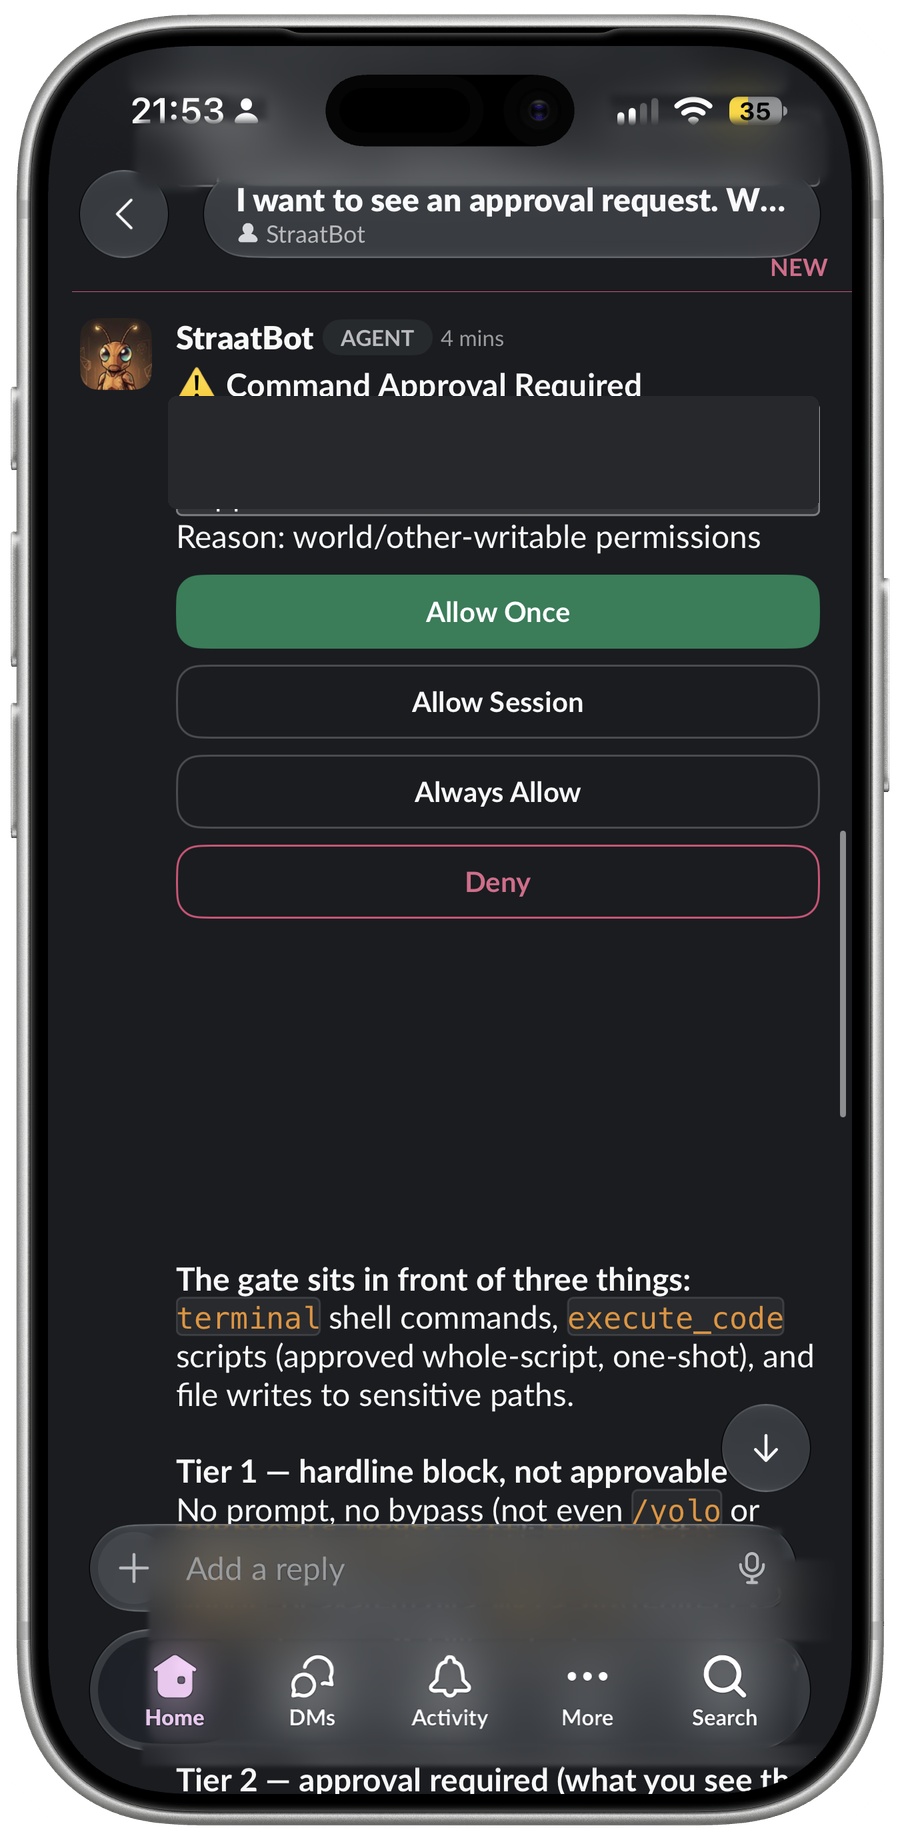
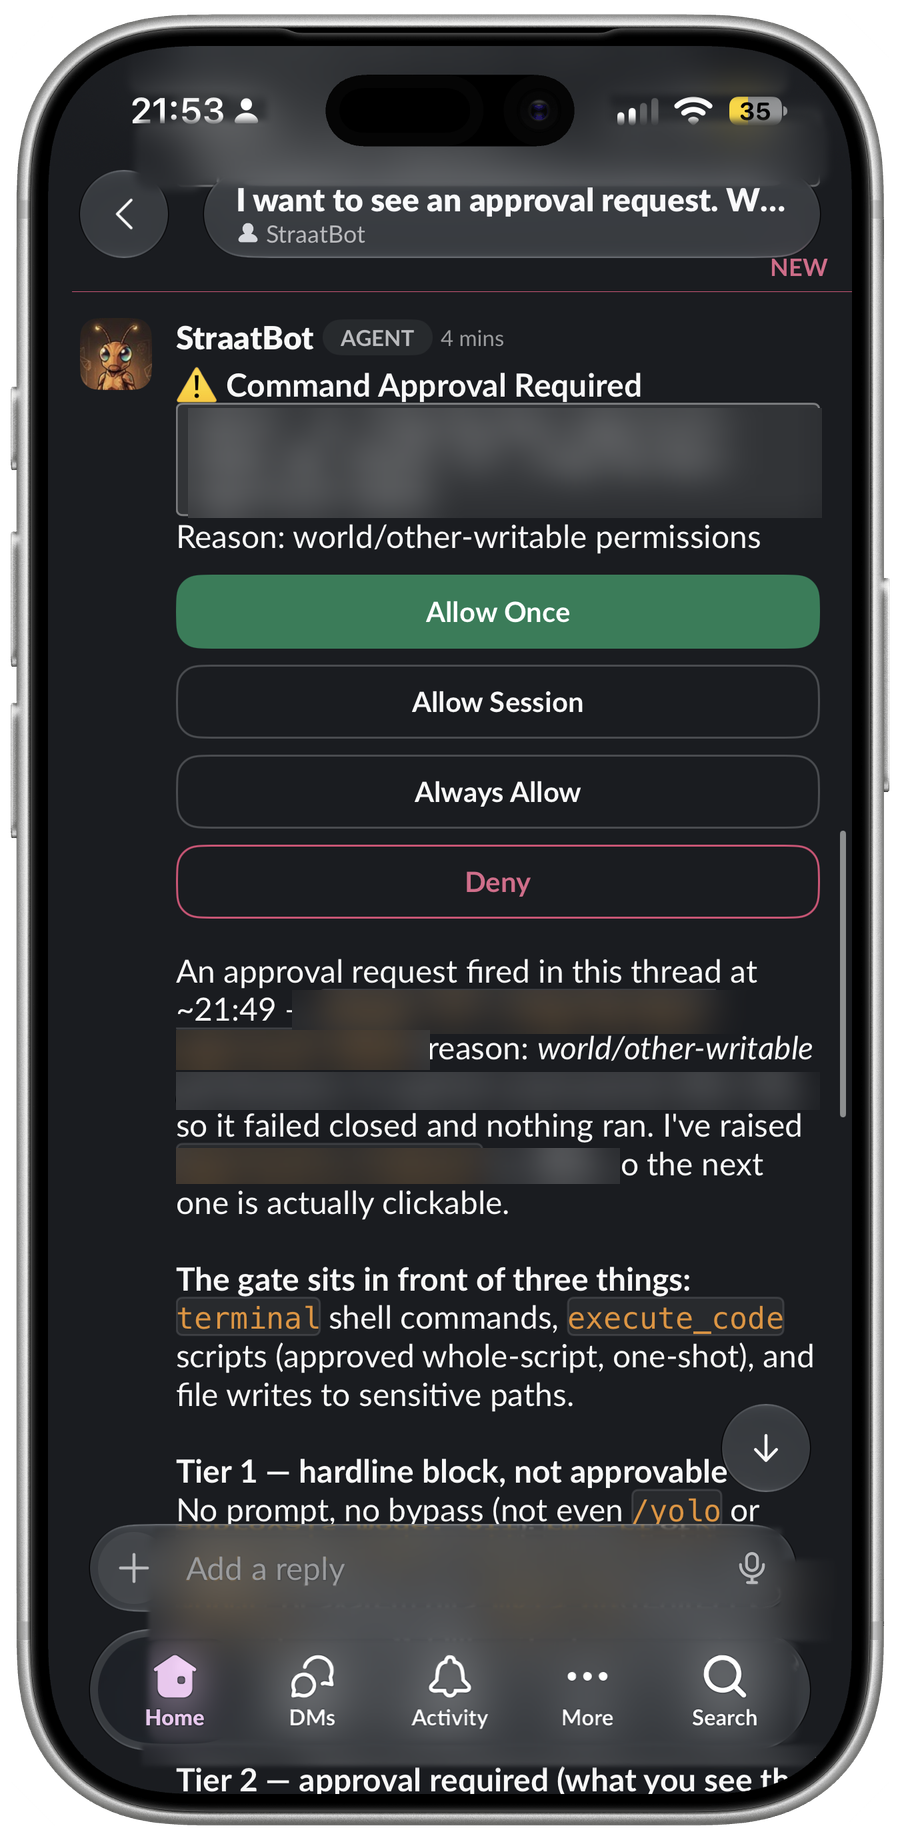
Keep StraatClaw side phones whole and blur private lines.
Scale the fan so every visible phone stays complete at desktop and
mid widths, and restore the full Telegram and Slack shots with blur
only on the venue, conflict, path, and timeout lines.

Changed region(s): [[0.1867, 0.5266, 0.9022, 0.6815], [0.1867, 0.2168, 0.8089, 0.2788]]

diff --git a/site/src/styles/site.css b/site/src/styles/site.css
@@ -2400,15 +2400,19 @@ html[data-page="resume"] a:hover {
 }
 
 .phone-stage {
-  --phone-center: 320px;
+  --phone-center: min(268px, 24cqi);
   --phone-ratio: 1.67;
   --phone-chip: 2.75rem;
+  --fan-shift: 11.5cqi;
+  --fan-scale: 0.78;
+  container-type: inline-size;
   position: relative;
   margin-top: 2.5rem;
   background: var(--surface);
   border: var(--stroke-hairline) solid var(--border);
-  padding: 2.25rem 3.5rem 1.5rem;
+  padding: 2.5rem 4.25rem 1.5rem;
   outline: none;
+  overflow: hidden;
 }
 
 .phone-stage:focus-visible {
@@ -2419,7 +2423,7 @@ html[data-page="resume"] a:hover {
 .phone-stage-viewport {
   position: relative;
   height: calc(var(--phone-center) * var(--phone-ratio) + var(--phone-chip));
-  overflow: hidden;
+  overflow: visible;
   touch-action: pan-y;
 }
 
@@ -2487,7 +2491,7 @@ html[data-page="resume"] a:hover {
   border-radius: 1.7rem;
 }
 
-/* Center phone and its two neighbors; everything else tucks away. */
+/* Three complete phones: center plus one whole neighbor on each side. */
 .phone-slide[data-offset="0"] {
   transform: translateX(-50%) scale(1);
   z-index: 3;
@@ -2495,33 +2499,20 @@ html[data-page="resume"] a:hover {
 }
 
 .phone-slide[data-offset="-1"] {
-  transform: translateX(calc(-50% - 58%)) scale(0.82);
+  transform: translateX(calc(-50% - var(--fan-shift))) scale(var(--fan-scale));
   z-index: 2;
-  opacity: 0.68;
+  opacity: 0.72;
 }
 
 .phone-slide[data-offset="1"] {
-  transform: translateX(calc(-50% + 58%)) scale(0.82);
+  transform: translateX(calc(-50% + var(--fan-shift))) scale(var(--fan-scale));
   z-index: 2;
-  opacity: 0.68;
+  opacity: 0.72;
 }
 
-.phone-slide[data-offset="-2"] {
-  transform: translateX(calc(-50% - 108%)) scale(0.66);
-  z-index: 1;
-  opacity: 0.32;
-}
-
-.phone-slide[data-offset="2"] {
-  transform: translateX(calc(-50% + 108%)) scale(0.66);
-  z-index: 1;
-  opacity: 0.32;
-}
-
-.phone-slide:not([data-offset="0"]):not([data-offset="-1"]):not([data-offset="1"]):not(
-    [data-offset="-2"]
-  ):not([data-offset="2"]) {
+.phone-slide:not([data-offset="0"]):not([data-offset="-1"]):not([data-offset="1"]) {
   opacity: 0;
+  visibility: hidden;
   pointer-events: none;
   z-index: 0;
 }
@@ -2593,14 +2584,10 @@ html[data-page="resume"] a:hover {
   }
 
   .phone-stage {
-    --phone-center: min(280px, 68vw);
-    padding-inline: 2.5rem;
-  }
-
-  .phone-slide[data-offset="-2"],
-  .phone-slide[data-offset="2"] {
-    opacity: 0;
-    pointer-events: none;
+    --phone-center: clamp(160px, 32cqi, 210px);
+    --fan-shift: 9cqi;
+    --fan-scale: 0.72;
+    padding-inline: 3rem;
   }
 }
 
